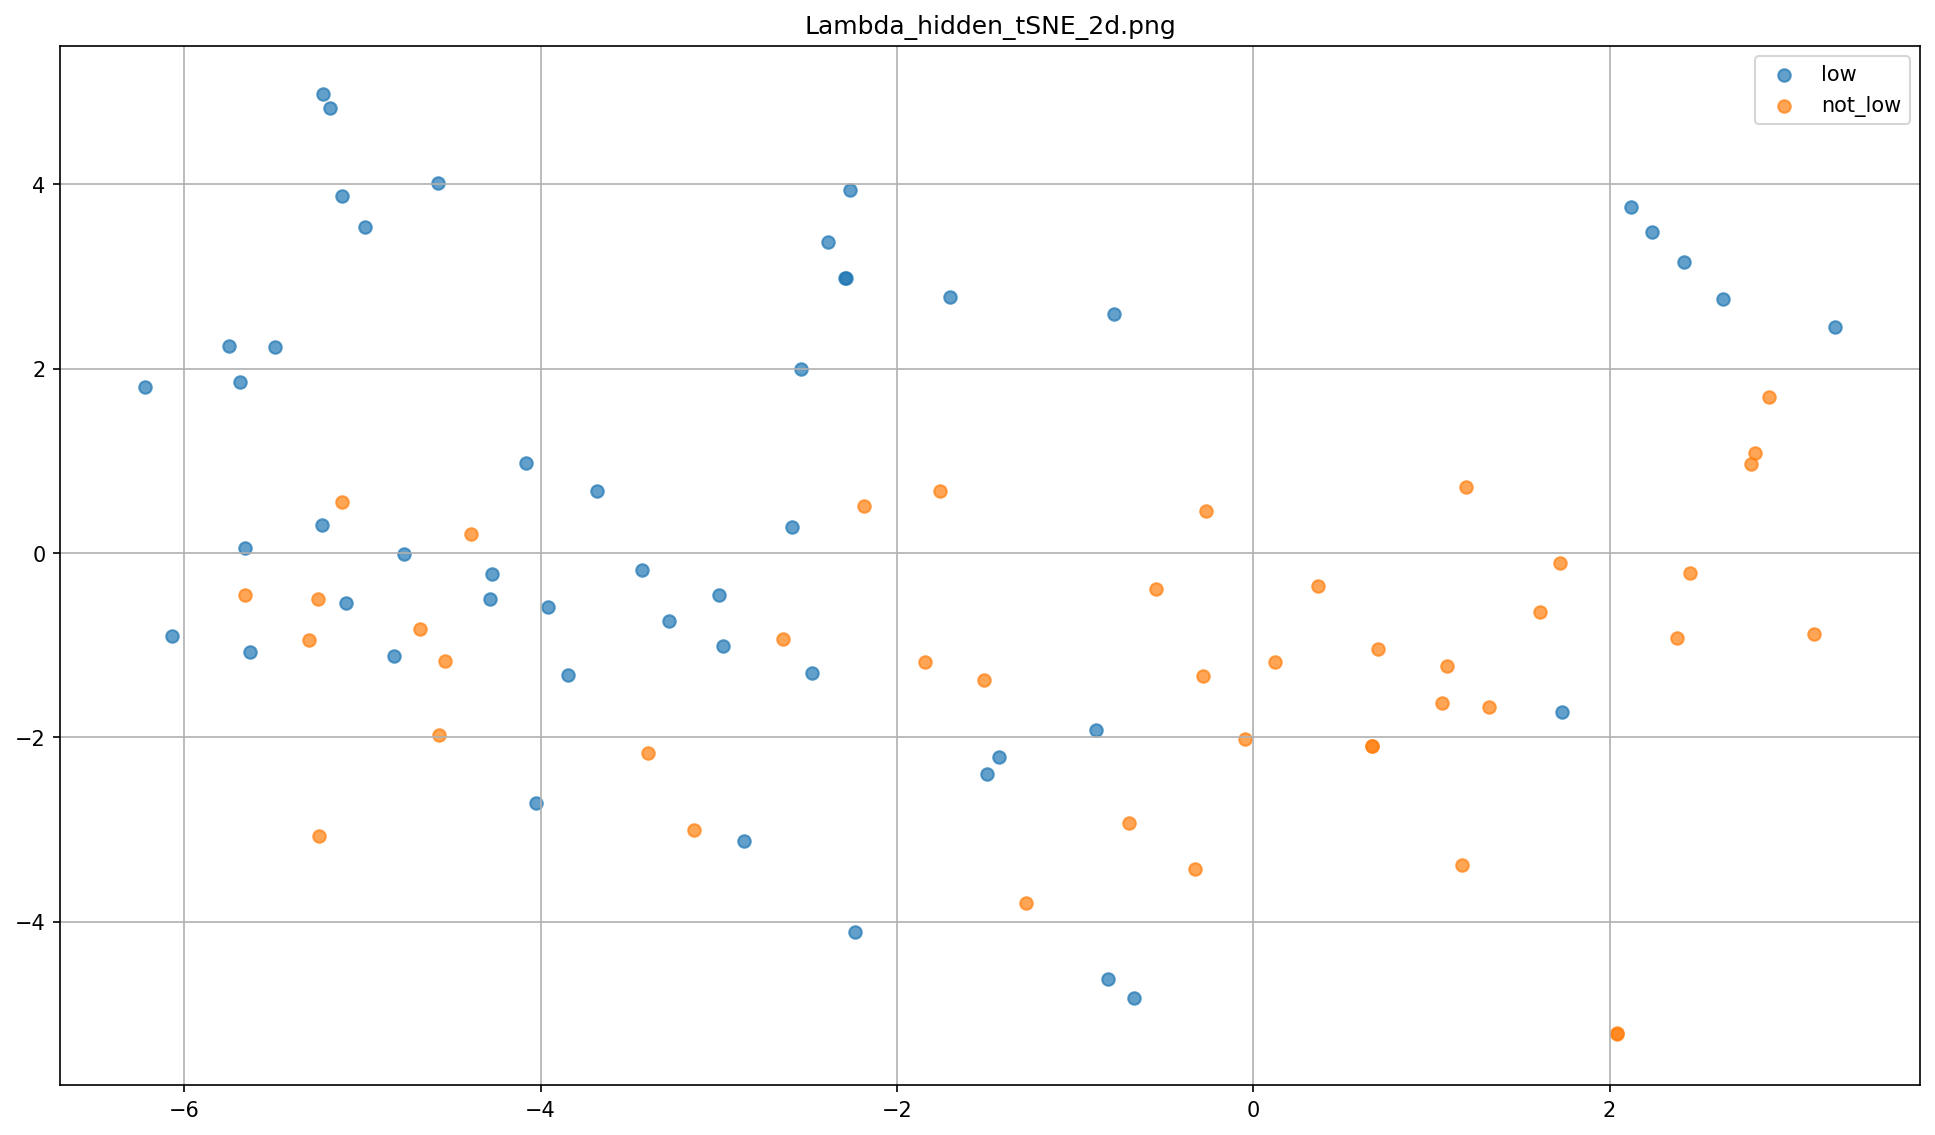
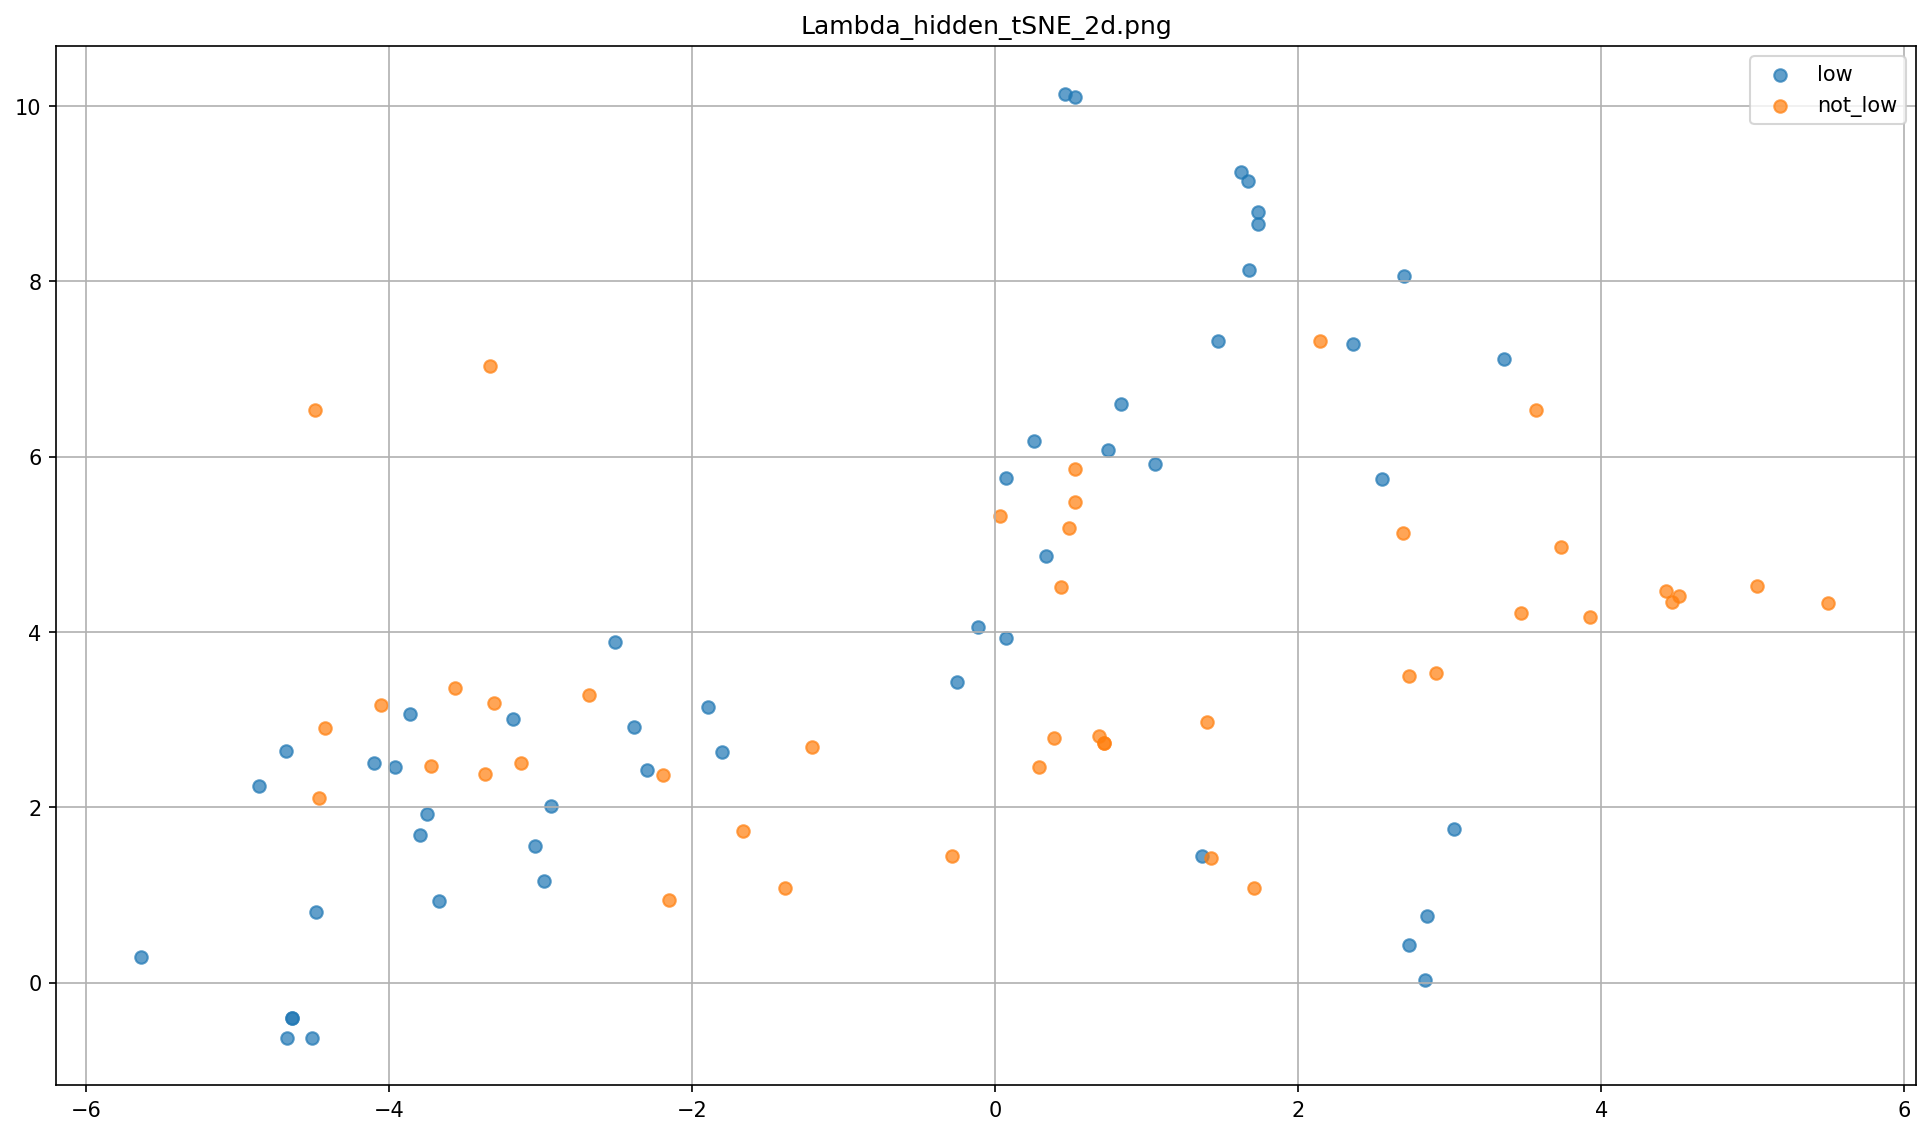
prevent overfitting

diff --git a/Boyu/simple_mlp.py b/Boyu/simple_mlp.py
@@ -69,8 +69,8 @@ def load_data_MLP(path, scale):
 
 device = torch.device('cuda' if torch.cuda.is_available() else 'cpu')
 data, in_size, ls_num, nls_num= load_data_MLP(
-		path = 'lambda_vectors_cleaned_3600.pkl', 
-		scale = 1)
+		path = 'lambda_vectors_with_user_ID.pkl', 
+		scale = 10**5)
 
 # X: [batch, num of features]
 # Y: [batch, num of labels]
@@ -79,10 +79,11 @@ print('X: {}, Y: {}'.format(X.shape, Y.shape))
 
 mlp = SimpleMLP(
 		in_size = in_size, 
-		hidden_size = 100).to(device)
+		hidden_size = 10).to(device)
 
 criterion = nn.BCEWithLogitsLoss()
-optimizer = optim.Adam(mlp.parameters(), weight_decay = 1e-5)
+# optimizer = optim.Adam(mlp.parameters(), weight_decay = 0.0001)
+optimizer = optim.SGD(mlp.parameters(), lr = 0.01, momentum = 0.9, weight_decay = 0)
 
 loss_history = []
 best_loss = float('inf')
@@ -95,7 +96,7 @@ for epoch in range(n_epoch):
 	loss.backward()
 	optimizer.step()
 
-	if epoch % 1000 == 0:
+	if epoch % 100 == 0:
 		print('Epoch [{}/{}] Loss: {}'.format(epoch, n_epoch, loss.item()))
 	loss_history.append(loss.item())
 
